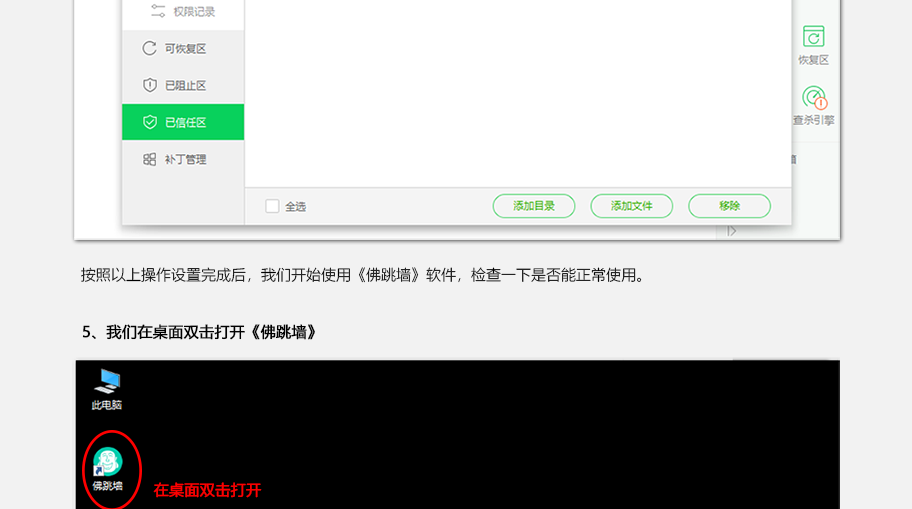
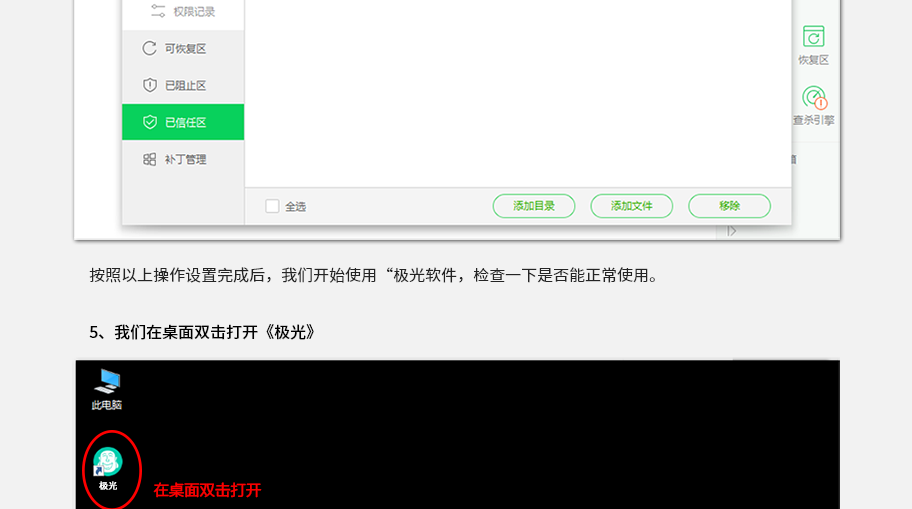
Add files via upload

Changed region(s): [[0.0921, 0.501, 0.7368, 0.5599], [0.0921, 0.6189, 0.3684, 0.6778], [0.0921, 0.943, 0.1535, 0.9725]]

diff --git a/index.html b/index.html
@@ -29,7 +29,7 @@
                 <div class="img2">
                     <img src="./images/2.png">
                 </div>
-                <p class="step1">1、打开佛跳墙PC软件，在左侧侧边栏找到【问题反馈】入口，点击进入右侧【问题反馈】页面</p>
+                <p class="step1">1、打开极光PC软件，在左侧侧边栏找到【问题反馈】入口，点击进入右侧【问题反馈】页面</p>
                 <p class="step2">
                     2、按照上图中四个步骤依次进行上报问题：
                 </p>
@@ -46,7 +46,7 @@
                 <div class="img3">
                     <img src="./images/3.png" />
                 </div>
-                <p>1、打开佛跳墙APP软件，在左侧侧边栏或首页右上角找到【问题反馈】入口，点击进入右图【问题反馈】页面</p>
+                <p>1、打开极光APP软件，在左侧侧边栏或首页右上角找到【问题反馈】入口，点击进入右图【问题反馈】页面</p>
                 <p>2、按照上图中四个步骤依次进行上报问题：</p>
                 <ul class="step-list">
                     <li>步骤1：首先选择问题类别中的<span>【软件提示·设置代理环境失败】</span>；</li>

diff --git a/line_aq.html b/line_aq.html
@@ -71,7 +71,7 @@
 			<div class="item">
 				<h3>Q:Windows端，界面显示连接成功，也开始计秒了，但还是没法访问Google，Youtube等外部站点</h3>
 				<div>
-					A：请打开IE浏览器，找到设置（或齿轮图标）->Internet选项->连接->局域网设置，在弹窗上检查是否勾上了“为LAN使用代理服务器（这些设置不用于拨号或VPN连接）”，请勾上并把下一行的地址设置为127.0.0.1，端口设置为19180，点击确定，并弹出的框都点击确定，再尝试重新连接佛跳墙
+					A：请打开IE浏览器，找到设置（或齿轮图标）->Internet选项->连接->局域网设置，在弹窗上检查是否勾上了“为LAN使用代理服务器（这些设置不用于拨号或VPN连接）”，请勾上并把下一行的地址设置为127.0.0.1，端口设置为19180，点击确定，并弹出的框都点击确定，再尝试重新连接极光
 				</div>
 			</div>
 		</div>

diff --git a/proxy_settings.html b/proxy_settings.html
@@ -24,7 +24,7 @@
                 <p>二、选中 连接->局域网设置 </p>
                   <img src="img/002.png" class="col-7 mb-3">
                   
-                <p>三、勾选 使用自动配置脚本； 复制佛跳墙首页上地址栏上的内容 把最后的connect修改为fei.pac（比如如：http://localhost:53111/js6pgiklihgp589pflrtwf7bt5j2whuy/fei.pac，这只是个例子，一定要复制您电脑上佛跳墙首页上的地址），填写到“局域网设置”中的
+                <p>三、勾选 使用自动配置脚本； 复制极光首页上地址栏上的内容 把最后的connect修改为fei.pac（比如如：http://localhost:53111/js6pgiklihgp589pflrtwf7bt5j2whuy/fei.pac，这只是个例子，一定要复制您电脑上极光首页上的地址），填写到“局域网设置”中的
 			“地址” 上；只保留如图的配置，其他一律去掉。
 </p>
 <img src="img/003.png" class="col-7"> <br><br>

diff --git a/notice.html b/notice.html
@@ -50,7 +50,7 @@
             <p>
                 <span>客户端永久下载地址（建议您保存）:</span>
                 <span>
-                    <a class="blue" target="_blank" href="https://github.com/getfotiaoqiang/download">https://github.com/getfotiaoqiang/download</a>
+                    <a class="blue" target="_blank" href="https://github.com/getaurora/download">https://github.com/getaurora/download</a>
                 </span>
                 <p>
                     <img src="./images/u35.png" />
